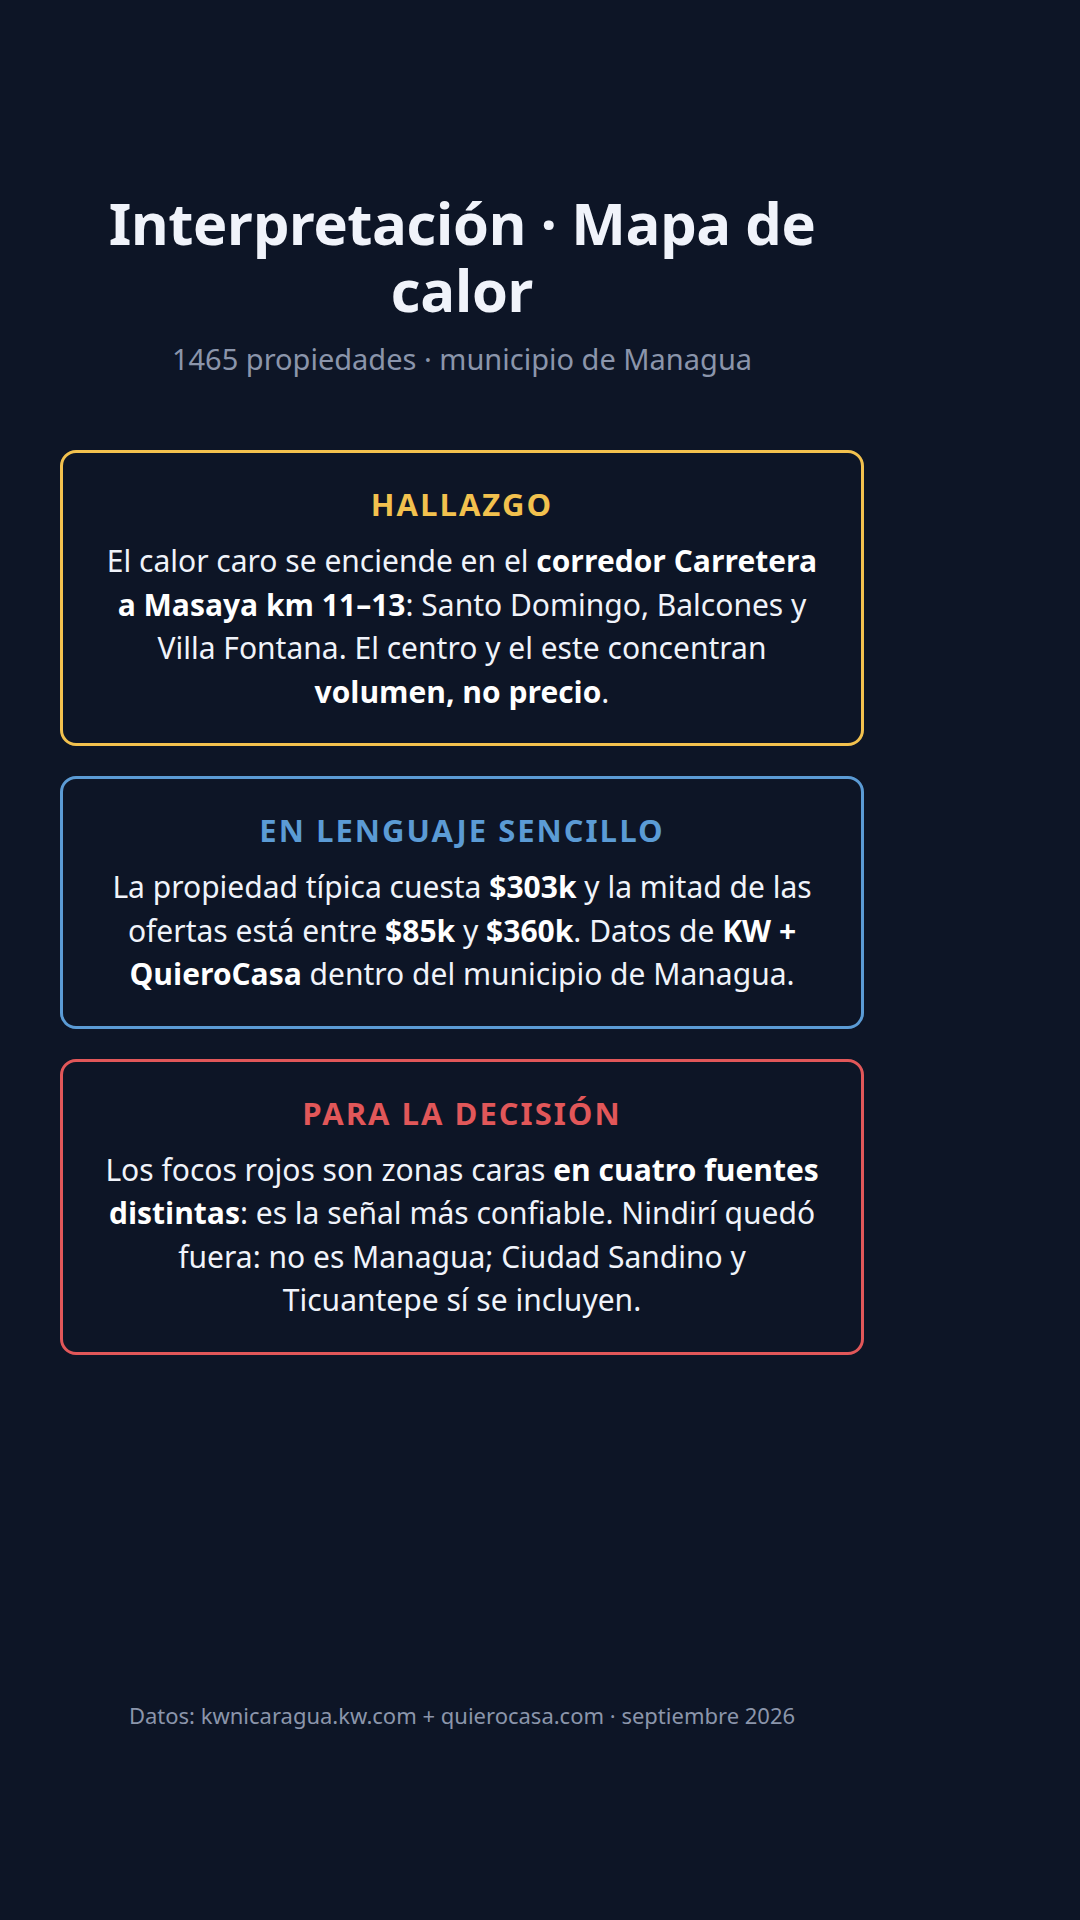
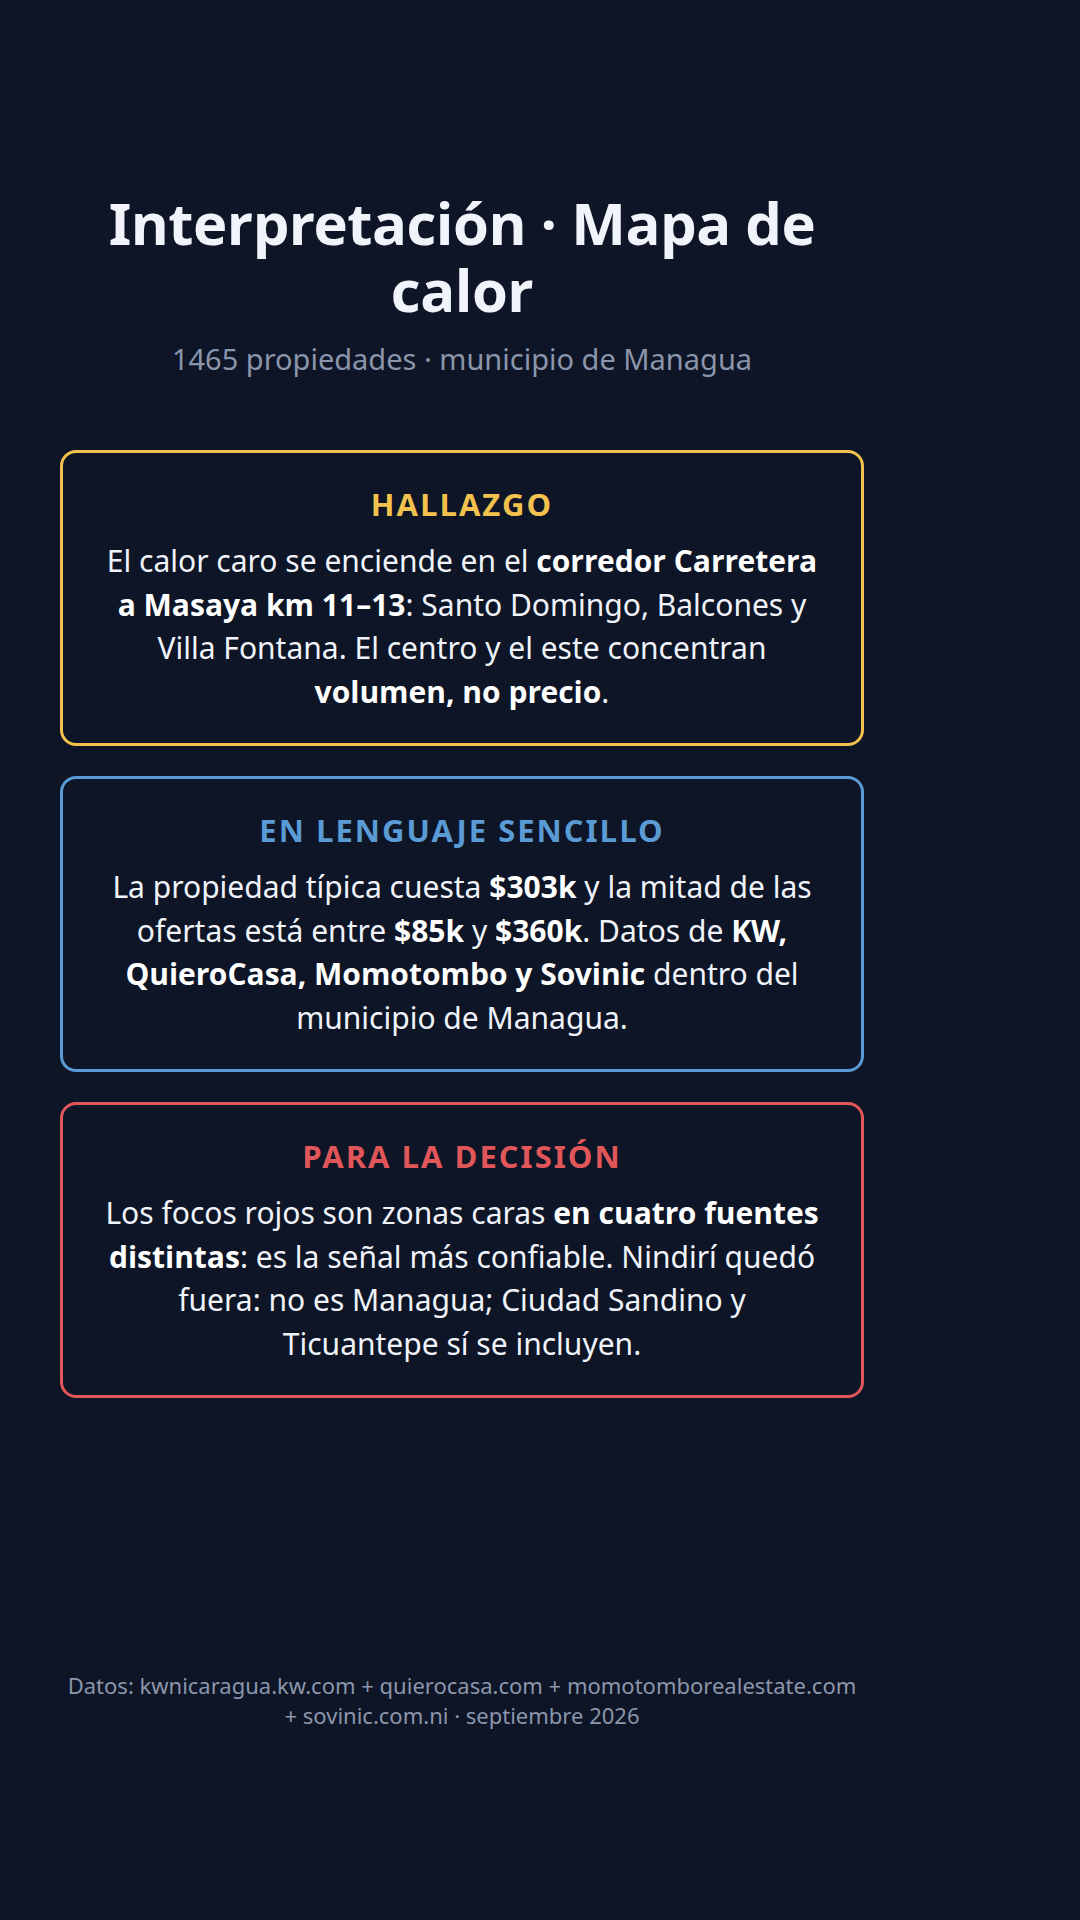
Actualiza slides de interpretación citando las 4 fuentes (KW, QuieroCasa, Momotombo, Sovinic)

Changed region(s): [[0.0306, 0.4688, 0.825, 0.7188], [0.0611, 0.875, 0.7944, 0.9062]]

diff --git a/generar_datos.py b/generar_datos.py
@@ -1,6 +1,6 @@
 """Genera los datos estáticos del sitio (data/*.json) desde el pipeline de análisis.
 
-Fuentes: KW Nicaragua, QuieroCasa y Momotombo (venta, Managua + Ciudad Sandino + Ticuantepe).
+Fuentes: KW Nicaragua, QuieroCasa, Momotombo y Sovinic (venta, Managua + Ciudad Sandino + Ticuantepe).
 Uso: python3 generar_datos.py   (requiere los CSVs en /home/devni/analisis bienes raices/)
 """
 import csv
